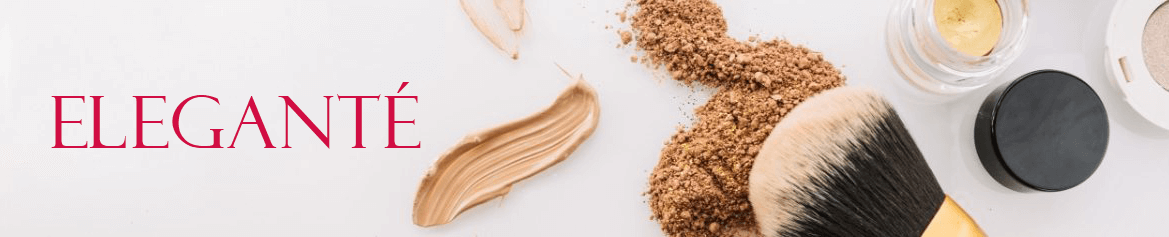
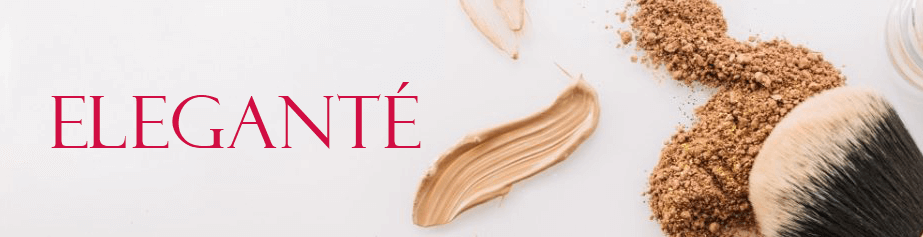
Update og_image

diff --git a/pages/_app.jsx b/pages/_app.jsx
@@ -39,7 +39,7 @@ export default function App({
 					content="E-Commerce App. Project of Numo Francis, an expert Frontend Developer in crafting software solutions that address unique challenges and measurably impact the bottom line."
 				/>
 				<meta property="og:image" content="/images/ogelegante.png" />
-				<meta property="og:image:width" content="1169" />
+				<meta property="og:image:width" content="923" />
 				<meta property="og:image:height" content="237" />
 
 				<meta property="og:image:alt" content="Eleganté Shop" />
